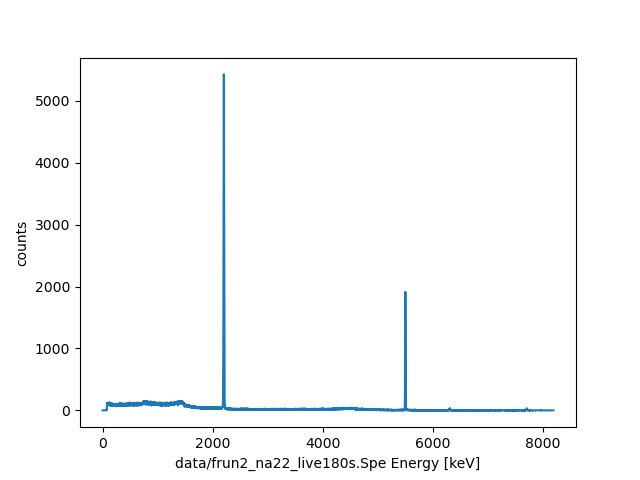
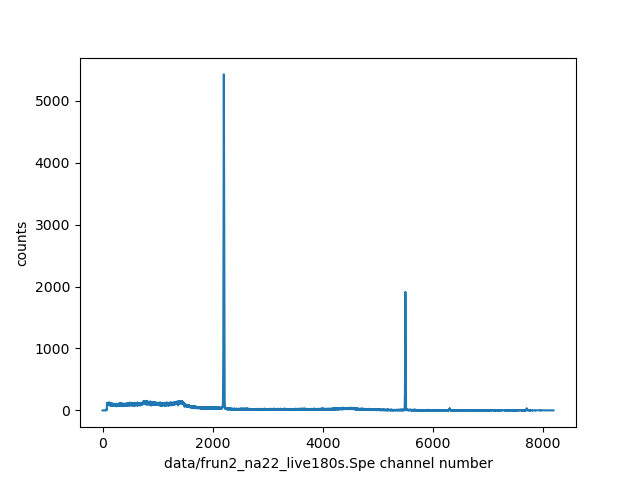
fix a plot label

Changed region(s): [[0.25, 0.9375, 0.7812, 1.0]]

diff --git a/HPGe/make_plots.py b/HPGe/make_plots.py
@@ -19,7 +19,7 @@ def plot_spectrum(spec: Spectrum, save=True):
     plot_data = spec.spectrum
     output_filename = spec.filename.replace(".Spe", ".png")
     output_filename = output_filename.replace("data", "images")
-    xlabel = spec.filename+" Energy [keV]"
+    xlabel = spec.filename+" channel number"
     plt.ylabel("counts")
     plt.plot(CHANNELS, plot_data)
     plt.xlabel(xlabel)
